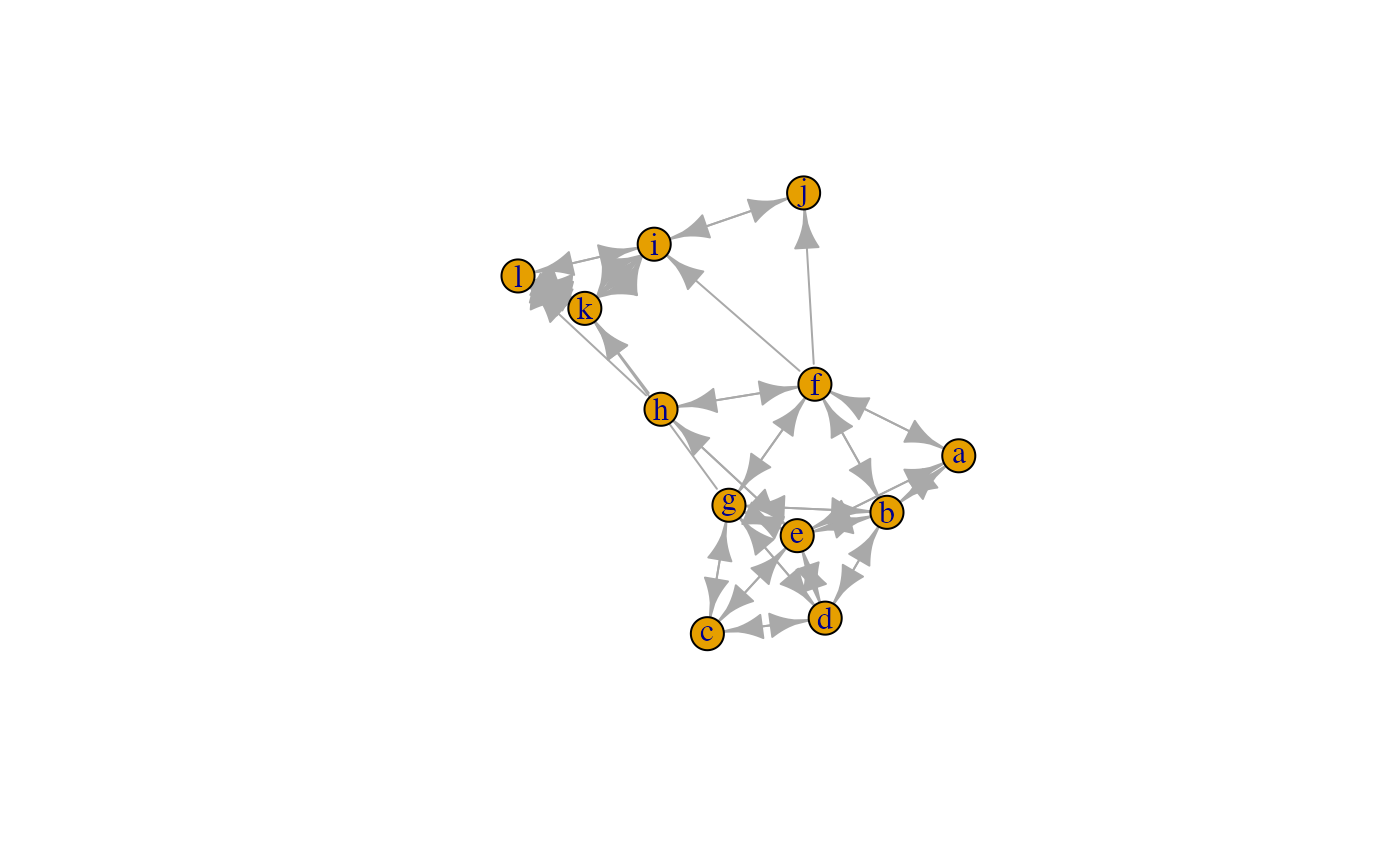
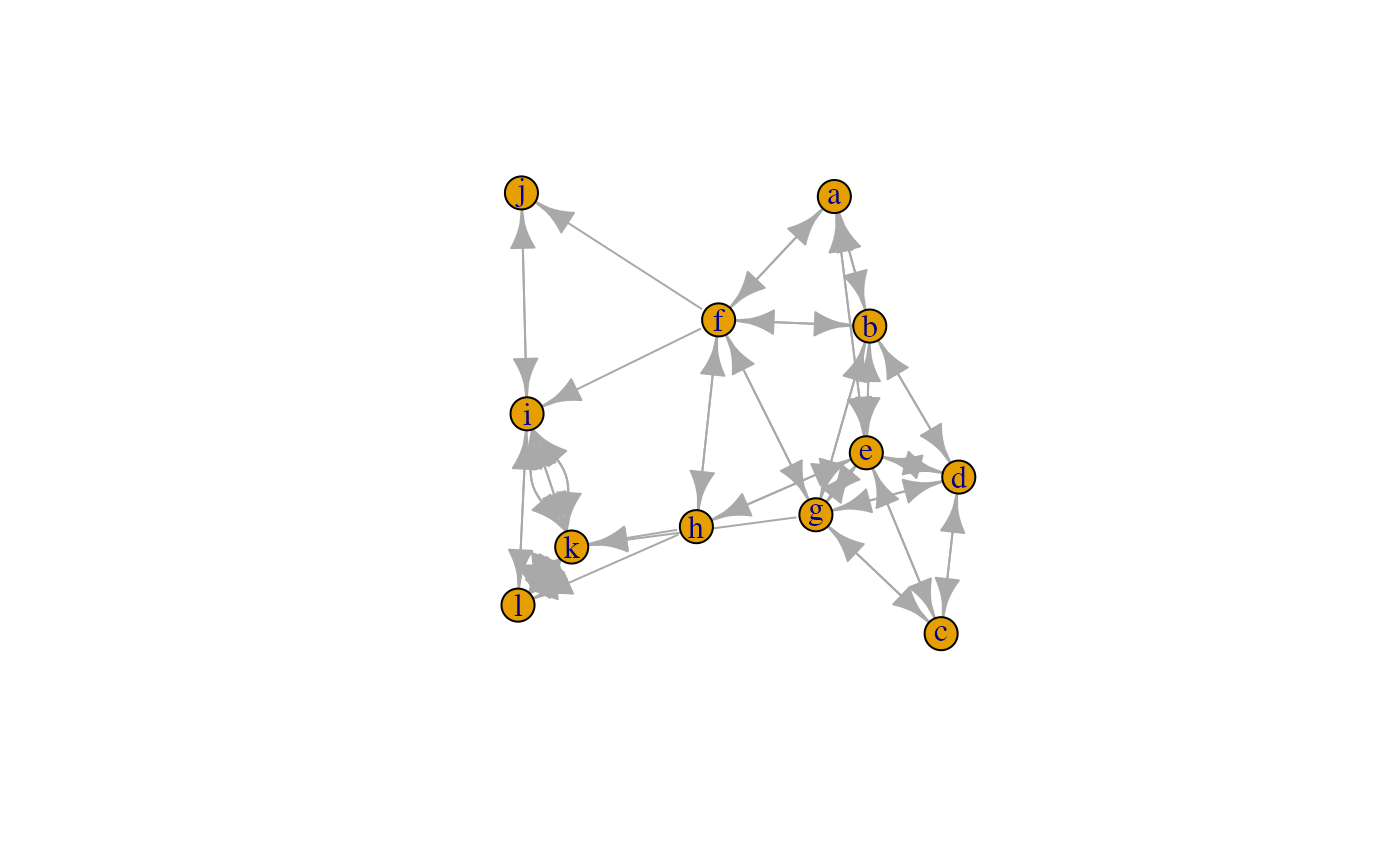
Update vignette

Changed region(s): [[0.3379, 0.1873, 0.7064, 0.7491]]

diff --git a/docs/articles/multilayer.html b/docs/articles/multilayer.html
@@ -551,7 +551,7 @@
 <div class="sourceCode" id="cb12"><pre class="downlit sourceCode r">
 <code class="sourceCode R"><span class="fu"><a href="../reference/k_core.html">k_core</a></span><span class="op">(</span><span class="va">A1</span>, <span class="va">B1</span>, multilevel<span class="op">=</span><span class="cn">TRUE</span><span class="op">)</span>
 <span class="co">#&gt; [1] 1 3 1 2 3</span></code></pre></div>
-<p>This package also allows performing complex census for multilevel networks.</p>
+<p>This package also allows performing complex census for multilevel networks</p>
 <div class="sourceCode" id="cb13"><pre class="downlit sourceCode r">
 <code class="sourceCode R"><span class="fu"><a href="../reference/mixed_census.html">mixed_census</a></span><span class="op">(</span><span class="va">A2</span>, <span class="fu"><a href="https://rdrr.io/r/base/t.html" class="external-link">t</a></span><span class="op">(</span><span class="va">B1</span><span class="op">)</span>, <span class="va">B2</span>, quad<span class="op">=</span><span class="cn">TRUE</span><span class="op">)</span>
 <span class="co">#&gt;   000   100   001   010   020   200  11D0  11U0   120   210   220   002  01D1 </span>
@@ -560,22 +560,200 @@
 <span class="co">#&gt;     0     0     8     0     3     0     1     3     1     0     0     0     0 </span>
 <span class="co">#&gt;  121W  121P  21D1  21U1  11D2  11U2   221   122   212   222 </span>
 <span class="co">#&gt;    11    13     0     0     0     0     3     0     0     0</span></code></pre></div>
+<p>Also, there are some functions that allowed performing the zone-2 sampling from second-mode (2-path distance from an ego in the second level)</p>
+<div class="sourceCode" id="cb14"><pre class="downlit sourceCode r">
+<code class="sourceCode R"><span class="kw"><a href="https://rdrr.io/r/base/library.html" class="external-link">library</a></span><span class="op">(</span><span class="va"><a href="https://igraph.org" class="external-link">igraph</a></span><span class="op">)</span>
+<span class="va">m</span> <span class="op">&lt;-</span> <span class="fu"><a href="../reference/meta_matrix.html">meta_matrix</a></span><span class="op">(</span><span class="va">A1</span>, <span class="va">B1</span><span class="op">)</span>
+<span class="va">g</span> <span class="op">&lt;-</span> <span class="fu"><a href="https://rdrr.io/pkg/igraph/man/graph_from_adjacency_matrix.html" class="external-link">graph.adjacency</a></span><span class="op">(</span><span class="va">m</span>, mode <span class="op">=</span> <span class="fu"><a href="https://rdrr.io/r/base/c.html" class="external-link">c</a></span><span class="op">(</span><span class="st">'undirected'</span><span class="op">)</span><span class="op">)</span>
+<span class="fu"><a href="https://rdrr.io/pkg/igraph/man/V.html" class="external-link">V</a></span><span class="op">(</span><span class="va">g</span><span class="op">)</span><span class="op">$</span><span class="va">type</span> <span class="op">&lt;-</span> <span class="fu"><a href="https://rdrr.io/r/base/ifelse.html" class="external-link">ifelse</a></span><span class="op">(</span><span class="fu"><a href="https://rdrr.io/pkg/igraph/man/V.html" class="external-link">V</a></span><span class="op">(</span><span class="va">g</span><span class="op">)</span><span class="op">$</span><span class="va">name</span> <span class="op"><a href="https://rdrr.io/r/base/match.html" class="external-link">%in%</a></span> <span class="fu"><a href="https://rdrr.io/r/base/colnames.html" class="external-link">colnames</a></span><span class="op">(</span><span class="va">B1</span><span class="op">)</span>, <span class="cn">TRUE</span>, <span class="cn">FALSE</span><span class="op">)</span>
+<span class="fu"><a href="https://rdrr.io/r/graphics/plot.default.html" class="external-link">plot</a></span><span class="op">(</span><span class="va">g</span>, vertex.color <span class="op">=</span> <span class="fu"><a href="https://rdrr.io/r/base/ifelse.html" class="external-link">ifelse</a></span><span class="op">(</span><span class="fu"><a href="https://rdrr.io/pkg/igraph/man/V.html" class="external-link">V</a></span><span class="op">(</span><span class="va">g</span><span class="op">)</span><span class="op">$</span><span class="va">type</span> <span class="op">==</span> <span class="cn">TRUE</span>, <span class="st">'blue'</span>, <span class="st">'red'</span><span class="op">)</span><span class="op">)</span></code></pre></div>
+<p><img src="multilayer_files/figure-html/unnamed-chunk-7-1.png" width="700"></p>
+<div class="sourceCode" id="cb15"><pre class="downlit sourceCode r">
+<code class="sourceCode R">
+<span class="va">two_mode_sam</span> <span class="op">&lt;-</span> <span class="fu"><a href="../reference/zone_sample.html">zone_sample</a></span><span class="op">(</span><span class="va">A1</span>, <span class="va">B1</span>, ego <span class="op">=</span> <span class="cn">TRUE</span><span class="op">)</span>
+<span class="kw">for</span><span class="op">(</span><span class="va">i</span> <span class="kw">in</span> <span class="fl">1</span><span class="op">:</span><span class="fu"><a href="https://rdrr.io/r/base/nrow.html" class="external-link">ncol</a></span><span class="op">(</span><span class="va">B1</span><span class="op">)</span><span class="op">)</span><span class="op">{</span>
+   <span class="fu"><a href="https://rdrr.io/pkg/igraph/man/V.html" class="external-link">V</a></span><span class="op">(</span><span class="va">two_mode_sam</span><span class="op">[[</span><span class="va">i</span><span class="op">]</span><span class="op">]</span><span class="op">)</span><span class="op">$</span><span class="va">color</span> <span class="op">&lt;-</span> <span class="fu"><a href="https://rdrr.io/r/base/ifelse.html" class="external-link">ifelse</a></span><span class="op">(</span><span class="fu"><a href="https://rdrr.io/pkg/igraph/man/V.html" class="external-link">V</a></span><span class="op">(</span><span class="va">two_mode_sam</span><span class="op">[[</span><span class="va">i</span><span class="op">]</span><span class="op">]</span><span class="op">)</span><span class="op">$</span><span class="va">name</span> <span class="op"><a href="https://rdrr.io/r/base/match.html" class="external-link">%in%</a></span> <span class="fu"><a href="https://rdrr.io/r/base/colnames.html" class="external-link">colnames</a></span><span class="op">(</span><span class="va">B1</span><span class="op">)</span>, <span class="st">'blue'</span>, <span class="st">'red'</span><span class="op">)</span>
+   
+   <span class="fu"><a href="https://rdrr.io/r/graphics/plot.default.html" class="external-link">plot</a></span><span class="op">(</span><span class="fu"><a href="https://rdrr.io/pkg/igraph/man/as.directed.html" class="external-link">as.undirected</a></span><span class="op">(</span><span class="va">two_mode_sam</span><span class="op">[[</span><span class="va">i</span><span class="op">]</span><span class="op">]</span><span class="op">)</span>, vertex.color <span class="op">=</span> <span class="fu"><a href="https://rdrr.io/pkg/igraph/man/V.html" class="external-link">V</a></span><span class="op">(</span><span class="va">two_mode_sam</span><span class="op">[[</span><span class="va">i</span><span class="op">]</span><span class="op">]</span><span class="op">)</span><span class="op">$</span><span class="va">color</span>, main <span class="op">=</span> <span class="fu"><a href="https://rdrr.io/r/base/names.html" class="external-link">names</a></span><span class="op">(</span><span class="va">two_mode_sam</span><span class="op">)</span><span class="op">[</span><span class="va">i</span><span class="op">]</span><span class="op">)</span>
+   
+<span class="op">}</span></code></pre></div>
+<p><img src="multilayer_files/figure-html/unnamed-chunk-7-2.png" width="700"><img src="multilayer_files/figure-html/unnamed-chunk-7-3.png" width="700"><img src="multilayer_files/figure-html/unnamed-chunk-7-4.png" width="700"></p>
+<p>Willing to create a multilevel network? We can simulate a multilevel network with 30 actors in the first level and 20 nodes in the second level.</p>
+<div class="sourceCode" id="cb16"><pre class="downlit sourceCode r">
+<code class="sourceCode R"><span class="fu"><a href="https://rdrr.io/r/base/Random.html" class="external-link">set.seed</a></span><span class="op">(</span><span class="fl">26091949</span><span class="op">)</span>
+<span class="fu"><a href="../reference/ind_rand_matrix.html">ind_rand_matrix</a></span><span class="op">(</span>n <span class="op">=</span> <span class="fl">30</span>, m <span class="op">=</span> <span class="fl">20</span>, type <span class="op">=</span> <span class="st">'probability'</span>, p <span class="op">=</span> <span class="fl">0.2</span>, multilevel <span class="op">=</span> <span class="cn">TRUE</span><span class="op">)</span>
+<span class="co">#&gt;     n1 n2 n3 n4 n5 n6 n7 n8 n9 n10 n11 n12 n13 n14 n15 n16 n17 n18 n19 n20 n21</span>
+<span class="co">#&gt; n1   0  0  1  0  0  0  1  0  0   1   0   0   1   0   0   0   0   0   0   0   0</span>
+<span class="co">#&gt; n2   0  0  0  0  0  0  0  0  0   0   0   1   0   0   1   0   1   0   0   1   0</span>
+<span class="co">#&gt; n3   0  0  0  0  0  0  1  0  0   0   0   0   1   0   0   0   0   0   0   0   0</span>
+<span class="co">#&gt; n4   0  0  1  0  0  0  0  0  0   0   0   0   1   0   1   0   0   0   0   1   0</span>
+<span class="co">#&gt; n5   0  0  1  0  0  0  0  0  1   0   1   0   0   1   0   0   1   0   0   0   0</span>
+<span class="co">#&gt; n6   1  0  0  0  0  0  0  0  0   0   0   0   1   1   1   0   0   0   0   0   1</span>
+<span class="co">#&gt; n7   0  0  1  0  0  0  0  0  0   0   0   1   0   0   0   0   1   0   0   0   1</span>
+<span class="co">#&gt; n8   0  0  0  0  0  0  0  0  0   0   0   1   0   0   1   1   1   0   0   0   0</span>
+<span class="co">#&gt; n9   0  0  0  0  1  0  0  0  0   0   0   0   0   0   0   0   0   0   0   0   0</span>
+<span class="co">#&gt; n10  0  0  1  0  1  0  0  0  0   0   0   0   0   0   0   0   0   0   1   0   0</span>
+<span class="co">#&gt; n11  1  0  0  1  0  1  0  0  0   0   0   0   0   1   0   0   1   0   0   0   0</span>
+<span class="co">#&gt; n12  0  0  0  0  0  0  0  0  0   1   0   0   0   0   0   0   0   0   1   0   0</span>
+<span class="co">#&gt; n13  0  0  0  0  0  0  0  0  0   0   0   0   0   0   1   0   0   0   1   0   0</span>
+<span class="co">#&gt; n14  0  0  1  0  0  0  0  0  0   0   0   0   0   0   0   0   0   1   1   0   0</span>
+<span class="co">#&gt; n15  0  0  0  0  1  0  0  1  1   0   0   0   0   0   0   0   0   0   0   0   0</span>
+<span class="co">#&gt; n16  0  1  0  0  1  0  0  0  0   1   1   0   0   0   1   0   0   0   0   0   1</span>
+<span class="co">#&gt; n17  0  1  0  0  0  0  1  0  0   0   0   0   0   0   0   1   0   0   0   0   0</span>
+<span class="co">#&gt; n18  1  0  0  0  0  0  1  0  1   0   0   0   0   0   0   0   0   0   1   0   0</span>
+<span class="co">#&gt; n19  1  0  1  0  0  1  0  0  0   1   0   0   0   0   0   1   0   0   0   0   0</span>
+<span class="co">#&gt; n20  0  1  0  0  0  0  0  1  0   1   0   0   1   0   0   0   1   1   0   0   0</span>
+<span class="co">#&gt; n21  0  0  0  1  1  1  0  0  0   0   0   0   0   1   0   0   0   0   1   0   0</span>
+<span class="co">#&gt; n22  0  0  0  0  0  0  0  0  0   0   1   0   0   0   0   0   0   0   0   0   0</span>
+<span class="co">#&gt; n23  1  0  0  0  0  1  1  0  1   0   0   0   0   0   0   0   1   0   0   1   0</span>
+<span class="co">#&gt; n24  0  0  0  0  0  0  0  0  0   0   0   0   0   0   0   0   0   0   0   0   0</span>
+<span class="co">#&gt; n25  1  0  0  0  1  0  0  0  0   0   0   0   1   0   0   0   0   0   0   0   0</span>
+<span class="co">#&gt; n26  0  0  1  0  0  0  0  0  0   0   0   0   0   0   0   0   0   0   0   0   1</span>
+<span class="co">#&gt; n27  0  0  1  0  0  0  0  0  0   0   0   0   0   0   0   0   0   0   0   0   0</span>
+<span class="co">#&gt; n28  1  0  1  0  0  1  0  0  0   0   0   0   0   1   0   0   1   1   1   0   0</span>
+<span class="co">#&gt; n29  0  0  0  0  0  0  0  0  0   0   1   0   0   0   0   0   0   0   1   0   0</span>
+<span class="co">#&gt; n30  0  0  0  1  0  0  0  1  0   0   0   0   1   0   1   0   0   0   0   1   0</span>
+<span class="co">#&gt; m1   0  0  0  0  0  0  0  0  0   1   0   0   0   1   0   0   0   1   0   0   0</span>
+<span class="co">#&gt; m2   0  1  0  0  1  1  0  1  0   0   0   0   0   0   0   0   0   1   0   0   0</span>
+<span class="co">#&gt; m3   0  0  0  0  0  0  0  0  0   0   0   0   0   0   1   1   0   1   1   0   0</span>
+<span class="co">#&gt; m4   0  0  0  0  1  1  0  0  0   0   0   0   0   0   0   0   1   1   1   0   0</span>
+<span class="co">#&gt; m5   0  0  0  1  0  0  0  0  0   0   0   0   1   1   0   0   0   1   0   1   0</span>
+<span class="co">#&gt; m6   0  0  0  0  0  0  0  1  1   0   0   1   0   0   1   0   0   0   0   0   1</span>
+<span class="co">#&gt; m7   0  0  0  1  0  0  1  0  1   0   0   0   0   0   0   0   1   0   0   1   0</span>
+<span class="co">#&gt; m8   0  0  0  0  0  0  0  0  0   1   0   0   0   0   1   0   0   0   0   1   0</span>
+<span class="co">#&gt; m9   1  0  0  1  0  0  1  0  0   0   0   0   0   0   0   0   0   0   0   1   0</span>
+<span class="co">#&gt; m10  1  0  0  1  0  1  0  0  0   1   0   0   0   0   0   0   0   0   0   0   0</span>
+<span class="co">#&gt; m11  0  0  0  1  1  1  0  0  0   1   0   1   0   0   0   0   0   1   0   1   1</span>
+<span class="co">#&gt; m12  0  1  0  0  0  1  0  0  0   0   0   0   0   0   1   1   0   1   0   0   0</span>
+<span class="co">#&gt; m13  0  0  1  0  0  0  1  0  0   0   0   0   0   0   0   0   1   1   0   0   0</span>
+<span class="co">#&gt; m14  0  0  0  0  0  0  0  0  0   0   0   0   0   1   0   0   0   0   0   0   0</span>
+<span class="co">#&gt; m15  0  0  0  0  0  0  0  0  0   0   0   0   1   0   1   1   0   1   0   1   0</span>
+<span class="co">#&gt; m16  0  0  0  0  0  1  0  0  0   0   0   0   0   0   0   0   0   0   0   0   1</span>
+<span class="co">#&gt; m17  0  1  0  0  1  0  1  1  0   0   0   0   0   1   1   0   1   0   0   0   0</span>
+<span class="co">#&gt; m18  0  1  0  0  1  0  0  0  0   1   0   0   0   0   0   0   0   0   0   0   0</span>
+<span class="co">#&gt; m19  1  0  0  0  0  0  0  1  0   1   0   0   0   1   0   0   1   1   0   0   0</span>
+<span class="co">#&gt; m20  0  0  0  0  0  1  0  1  0   0   0   0   0   0   0   1   0   0   0   0   0</span>
+<span class="co">#&gt;     n22 n23 n24 n25 n26 n27 n28 n29 n30 m1 m2 m3 m4 m5 m6 m7 m8 m9 m10 m11 m12</span>
+<span class="co">#&gt; n1    0   1   1   0   1   0   0   1   0  0  0  0  0  0  0  0  0  1   1   0   0</span>
+<span class="co">#&gt; n2    1   0   0   1   0   0   0   1   0  0  1  0  0  0  0  0  0  0   0   0   1</span>
+<span class="co">#&gt; n3    0   1   0   0   0   1   0   0   1  0  0  0  0  0  0  0  0  0   0   0   0</span>
+<span class="co">#&gt; n4    0   0   0   1   0   1   0   0   0  0  0  0  0  1  0  1  0  1   1   1   0</span>
+<span class="co">#&gt; n5    0   1   0   0   0   1   0   1   0  0  1  0  1  0  0  0  0  0   0   1   0</span>
+<span class="co">#&gt; n6    0   0   0   0   0   0   0   0   0  0  1  0  1  0  0  0  0  0   1   1   1</span>
+<span class="co">#&gt; n7    1   0   0   0   1   0   0   0   1  0  0  0  0  0  0  1  0  1   0   0   0</span>
+<span class="co">#&gt; n8    0   0   0   0   1   1   0   0   0  0  1  0  0  0  1  0  0  0   0   0   0</span>
+<span class="co">#&gt; n9    0   0   1   1   1   0   1   0   0  0  0  0  0  0  1  1  0  0   0   0   0</span>
+<span class="co">#&gt; n10   0   1   1   0   1   0   0   1   0  1  0  0  0  0  0  0  1  0   1   1   0</span>
+<span class="co">#&gt; n11   0   0   0   0   0   1   0   1   0  0  0  0  0  0  0  0  0  0   0   0   0</span>
+<span class="co">#&gt; n12   0   0   0   1   0   0   0   0   0  0  0  0  0  0  1  0  0  0   0   1   0</span>
+<span class="co">#&gt; n13   0   1   0   0   1   1   1   0   0  0  0  0  0  1  0  0  0  0   0   0   0</span>
+<span class="co">#&gt; n14   0   0   1   0   0   1   0   0   0  1  0  0  0  1  0  0  0  0   0   0   0</span>
+<span class="co">#&gt; n15   1   0   0   1   0   0   0   0   0  0  0  1  0  0  1  0  1  0   0   0   1</span>
+<span class="co">#&gt; n16   0   1   1   0   0   0   1   0   1  0  0  1  0  0  0  0  0  0   0   0   1</span>
+<span class="co">#&gt; n17   0   0   0   0   0   0   0   0   0  0  0  0  1  0  0  1  0  0   0   0   0</span>
+<span class="co">#&gt; n18   0   0   0   0   1   0   0   0   1  1  1  1  1  1  0  0  0  0   0   1   1</span>
+<span class="co">#&gt; n19   0   0   0   0   0   0   0   0   0  0  0  1  1  0  0  0  0  0   0   0   0</span>
+<span class="co">#&gt; n20   0   0   0   1   0   0   1   0   0  0  0  0  0  1  0  1  1  1   0   1   0</span>
+<span class="co">#&gt; n21   0   0   0   1   0   1   0   1   0  0  0  0  0  0  1  0  0  0   0   1   0</span>
+<span class="co">#&gt; n22   0   0   1   0   0   0   1   0   1  0  1  0  0  0  1  1  1  0   1   0   0</span>
+<span class="co">#&gt; n23   0   0   0   0   0   0   1   0   0  0  1  0  0  0  1  0  0  0   0   0   0</span>
+<span class="co">#&gt; n24   0   0   0   0   0   0   0   1   1  0  1  0  0  0  0  1  1  1   0   1   0</span>
+<span class="co">#&gt; n25   0   0   0   0   0   1   1   0   0  0  0  0  0  0  0  0  0  1   0   0   0</span>
+<span class="co">#&gt; n26   1   0   0   0   0   0   0   1   0  0  0  0  0  0  0  0  1  0   0   0   0</span>
+<span class="co">#&gt; n27   1   1   0   0   0   0   0   1   0  0  0  1  1  0  0  1  1  0   0   0   0</span>
+<span class="co">#&gt; n28   0   0   0   0   0   0   0   0   1  0  0  1  0  0  1  1  0  0   0   0   0</span>
+<span class="co">#&gt; n29   1   0   0   0   0   1   1   0   0  0  1  0  1  0  0  0  1  0   0   0   1</span>
+<span class="co">#&gt; n30   1   0   1   0   0   0   0   0   0  0  0  0  0  0  0  0  0  0   1   1   1</span>
+<span class="co">#&gt; m1    0   0   0   0   0   0   0   0   0  0  0  0  0  0  0  0  0  0   0   0   0</span>
+<span class="co">#&gt; m2    1   1   1   0   0   0   0   1   0  0  0  0  0  0  0  0  0  0   0   0   0</span>
+<span class="co">#&gt; m3    0   0   0   0   0   1   1   0   0  0  0  0  0  0  0  0  0  0   0   0   0</span>
+<span class="co">#&gt; m4    0   0   0   0   0   1   0   1   0  0  0  0  0  0  0  0  0  0   0   0   0</span>
+<span class="co">#&gt; m5    0   0   0   0   0   0   0   0   0  0  0  0  0  0  0  0  0  0   0   0   0</span>
+<span class="co">#&gt; m6    1   1   0   0   0   0   1   0   0  0  0  0  0  0  0  0  0  0   0   0   0</span>
+<span class="co">#&gt; m7    1   0   1   0   0   1   1   0   0  0  0  0  0  0  0  0  0  0   0   0   0</span>
+<span class="co">#&gt; m8    1   0   1   0   1   1   0   1   0  0  0  0  0  0  0  0  0  0   0   0   0</span>
+<span class="co">#&gt; m9    0   0   1   1   0   0   0   0   0  0  0  0  0  0  0  0  0  0   0   0   0</span>
+<span class="co">#&gt; m10   1   0   0   0   0   0   0   0   1  0  0  0  0  0  0  0  0  0   0   0   0</span>
+<span class="co">#&gt; m11   0   0   1   0   0   0   0   0   1  0  0  0  0  0  0  0  0  0   0   0   0</span>
+<span class="co">#&gt; m12   0   0   0   0   0   0   0   1   1  0  0  0  0  0  0  0  0  0   0   0   0</span>
+<span class="co">#&gt; m13   0   0   0   0   0   0   1   1   0  0  0  0  0  0  0  0  0  0   0   0   0</span>
+<span class="co">#&gt; m14   0   0   0   0   1   1   0   0   0  0  0  0  0  0  0  0  0  0   0   0   0</span>
+<span class="co">#&gt; m15   0   0   0   0   0   0   0   0   0  0  0  0  0  0  0  0  0  0   0   0   0</span>
+<span class="co">#&gt; m16   0   1   1   0   1   0   0   1   0  0  0  0  0  0  0  0  0  0   0   0   0</span>
+<span class="co">#&gt; m17   1   0   0   0   0   0   0   0   0  0  0  0  0  0  0  0  0  0   0   0   0</span>
+<span class="co">#&gt; m18   0   0   0   0   0   0   0   1   0  0  0  0  0  0  0  0  0  0   0   0   0</span>
+<span class="co">#&gt; m19   0   0   1   0   1   0   0   0   0  0  0  0  0  0  0  0  0  0   0   0   0</span>
+<span class="co">#&gt; m20   0   0   0   0   0   0   0   0   0  0  0  0  0  0  0  0  0  0   0   0   0</span>
+<span class="co">#&gt;     m13 m14 m15 m16 m17 m18 m19 m20</span>
+<span class="co">#&gt; n1    0   0   0   0   0   0   1   0</span>
+<span class="co">#&gt; n2    0   0   0   0   1   1   0   0</span>
+<span class="co">#&gt; n3    1   0   0   0   0   0   0   0</span>
+<span class="co">#&gt; n4    0   0   0   0   0   0   0   0</span>
+<span class="co">#&gt; n5    0   0   0   0   1   1   0   0</span>
+<span class="co">#&gt; n6    0   0   0   1   0   0   0   1</span>
+<span class="co">#&gt; n7    1   0   0   0   1   0   0   0</span>
+<span class="co">#&gt; n8    0   0   0   0   1   0   1   1</span>
+<span class="co">#&gt; n9    0   0   0   0   0   0   0   0</span>
+<span class="co">#&gt; n10   0   0   0   0   0   1   1   0</span>
+<span class="co">#&gt; n11   0   0   0   0   0   0   0   0</span>
+<span class="co">#&gt; n12   0   0   0   0   0   0   0   0</span>
+<span class="co">#&gt; n13   0   0   1   0   0   0   0   0</span>
+<span class="co">#&gt; n14   0   1   0   0   1   0   1   0</span>
+<span class="co">#&gt; n15   0   0   1   0   1   0   0   0</span>
+<span class="co">#&gt; n16   0   0   1   0   0   0   0   1</span>
+<span class="co">#&gt; n17   1   0   0   0   1   0   1   0</span>
+<span class="co">#&gt; n18   1   0   1   0   0   0   1   0</span>
+<span class="co">#&gt; n19   0   0   0   0   0   0   0   0</span>
+<span class="co">#&gt; n20   0   0   1   0   0   0   0   0</span>
+<span class="co">#&gt; n21   0   0   0   1   0   0   0   0</span>
+<span class="co">#&gt; n22   0   0   0   0   1   0   0   0</span>
+<span class="co">#&gt; n23   0   0   0   1   0   0   0   0</span>
+<span class="co">#&gt; n24   0   0   0   1   0   0   1   0</span>
+<span class="co">#&gt; n25   0   0   0   0   0   0   0   0</span>
+<span class="co">#&gt; n26   0   1   0   1   0   0   1   0</span>
+<span class="co">#&gt; n27   0   1   0   0   0   0   0   0</span>
+<span class="co">#&gt; n28   1   0   0   0   0   0   0   0</span>
+<span class="co">#&gt; n29   1   0   0   1   0   1   0   0</span>
+<span class="co">#&gt; n30   0   0   0   0   0   0   0   0</span>
+<span class="co">#&gt; m1    0   0   0   0   0   0   0   0</span>
+<span class="co">#&gt; m2    0   0   0   0   0   0   0   0</span>
+<span class="co">#&gt; m3    0   0   0   0   0   0   0   0</span>
+<span class="co">#&gt; m4    0   0   0   0   0   0   0   0</span>
+<span class="co">#&gt; m5    0   0   0   0   0   0   0   0</span>
+<span class="co">#&gt; m6    0   0   0   0   0   0   0   0</span>
+<span class="co">#&gt; m7    0   0   0   0   0   0   0   0</span>
+<span class="co">#&gt; m8    0   0   0   0   0   0   0   0</span>
+<span class="co">#&gt; m9    0   0   0   0   0   0   0   0</span>
+<span class="co">#&gt; m10   0   0   0   0   0   0   0   0</span>
+<span class="co">#&gt; m11   0   0   0   0   0   0   0   0</span>
+<span class="co">#&gt; m12   0   0   0   0   0   0   0   0</span>
+<span class="co">#&gt; m13   0   0   0   0   0   0   0   0</span>
+<span class="co">#&gt; m14   0   0   0   0   0   0   0   0</span>
+<span class="co">#&gt; m15   0   0   0   0   0   0   0   0</span>
+<span class="co">#&gt; m16   0   0   0   0   0   0   0   0</span>
+<span class="co">#&gt; m17   0   0   0   0   0   0   0   0</span>
+<span class="co">#&gt; m18   0   0   0   0   0   0   0   0</span>
+<span class="co">#&gt; m19   0   0   0   0   0   0   0   0</span>
+<span class="co">#&gt; m20   0   0   0   0   0   0   0   0</span></code></pre></div>
 <hr>
 </div>
 </div>
 <div class="section level2">
 <h2 id="multiplex-networks">Multiplex networks<a class="anchor" aria-label="anchor" href="#multiplex-networks"></a>
 </h2>
-<p>Gluckman (1955) described multiplexity as:</p>
-<p>“…”</p>
 <p>In multiplex networks, interlayer edges can only connect nodes that represent the same actor in different layer (<a href="https://www.frontiersin.org/articles/10.3389/fvets.2020.00596/full" class="external-link">Kinsley et al., 2020</a>)</p>
-<div class="sourceCode" id="cb14"><pre class="downlit sourceCode r">
+<p>As mentioned by <a href="https://books.google.ch/books/about/The_Judicial_Process_Among_the_Barotse_o.html?id=Eja8AAAAIAAJ&amp;redir_esc=y" class="external-link">Gluckman (1955: 19)</a>:</p>
+<p>“As we shall have constantly to refer to the consistency of Lozi law with these relationships which serve many interests, I propose, for brevity, to call them <em>multiplex</em> relationships. I require also a term to cover the structure of relationships in which a person tends to occupy the same position relative to the same set of other persons in all networks of purposive ties - economic, political, procreative, religious, educational.”</p>
+<p>To explore some of the functions available in <code>netmem</code> we will use data from <a href="https://books.google.ch/books/about/The_Collegial_Phenomenon.html?id=zRNaURgLOhYC&amp;redir_esc=y" class="external-link">Lazega (2001)</a></p>
+<div class="sourceCode" id="cb17"><pre class="downlit sourceCode r">
 <code class="sourceCode R"><span class="fu"><a href="https://rdrr.io/r/utils/data.html" class="external-link">data</a></span><span class="op">(</span><span class="st">"lazega_lawfirm"</span><span class="op">)</span>
 <span class="fu"><a href="https://rdrr.io/r/base/colnames.html" class="external-link">rownames</a></span><span class="op">(</span><span class="va">lazega_lawfirm</span><span class="op">$</span><span class="va">advice</span><span class="op">)</span> <span class="op">&lt;-</span> <span class="fu"><a href="https://rdrr.io/r/base/character.html" class="external-link">as.character</a></span><span class="op">(</span><span class="fl">1</span><span class="op">:</span><span class="fu"><a href="https://rdrr.io/r/base/nrow.html" class="external-link">ncol</a></span><span class="op">(</span><span class="va">lazega_lawfirm</span><span class="op">$</span><span class="va">advice</span><span class="op">)</span><span class="op">)</span>
 <span class="fu"><a href="https://rdrr.io/r/base/colnames.html" class="external-link">colnames</a></span><span class="op">(</span><span class="va">lazega_lawfirm</span><span class="op">$</span><span class="va">advice</span><span class="op">)</span> <span class="op">&lt;-</span> <span class="fu"><a href="https://rdrr.io/r/base/colnames.html" class="external-link">rownames</a></span><span class="op">(</span><span class="va">lazega_lawfirm</span><span class="op">$</span><span class="va">advice</span><span class="op">)</span>
+
 <span class="fu"><a href="https://rdrr.io/r/base/colnames.html" class="external-link">colnames</a></span><span class="op">(</span><span class="va">lazega_lawfirm</span><span class="op">$</span><span class="va">friends</span><span class="op">)</span> <span class="op">&lt;-</span> <span class="fu"><a href="https://rdrr.io/r/base/colnames.html" class="external-link">rownames</a></span><span class="op">(</span><span class="va">lazega_lawfirm</span><span class="op">$</span><span class="va">advice</span><span class="op">)</span>
 <span class="fu"><a href="https://rdrr.io/r/base/colnames.html" class="external-link">rownames</a></span><span class="op">(</span><span class="va">lazega_lawfirm</span><span class="op">$</span><span class="va">friends</span><span class="op">)</span> <span class="op">&lt;-</span> <span class="fu"><a href="https://rdrr.io/r/base/colnames.html" class="external-link">colnames</a></span><span class="op">(</span><span class="va">lazega_lawfirm</span><span class="op">$</span><span class="va">friends</span><span class="op">)</span></code></pre></div>
-<div class="sourceCode" id="cb15"><pre class="downlit sourceCode r">
+<p>Which are the densities of the networks?</p>
+<div class="sourceCode" id="cb18"><pre class="downlit sourceCode r">
 <code class="sourceCode R"><span class="fu"><a href="../reference/gen_density.html">gen_density</a></span><span class="op">(</span><span class="fu"><a href="https://rdrr.io/r/base/list.html" class="external-link">list</a></span><span class="op">(</span><span class="va">lazega_lawfirm</span><span class="op">$</span><span class="va">cowork</span>, <span class="va">lazega_lawfirm</span><span class="op">$</span><span class="va">advice</span>, 
                  <span class="va">lazega_lawfirm</span><span class="op">$</span><span class="va">friends</span><span class="op">)</span>, multilayer <span class="op">=</span> <span class="cn">TRUE</span><span class="op">)</span>
 <span class="co">#&gt; $`Density of matrix [[1]]`</span>
@@ -586,8 +764,37 @@
 <span class="co">#&gt; </span>
 <span class="co">#&gt; $`Density of matrix [[3]]`</span>
 <span class="co">#&gt; [1] 0.1251509</span></code></pre></div>
-<div class="sourceCode" id="cb16"><pre class="downlit sourceCode r">
-<code class="sourceCode R"><span class="fu"><a href="../reference/jaccard.html">jaccard</a></span><span class="op">(</span><span class="va">lazega_lawfirm</span><span class="op">$</span><span class="va">advice</span>, <span class="va">lazega_lawfirm</span><span class="op">$</span><span class="va">friends</span><span class="op">)</span>
+<p>How about computing the Jaccard index between matrices?</p>
+<div class="sourceCode" id="cb19"><pre class="downlit sourceCode r">
+<code class="sourceCode R"><span class="fu"><a href="../reference/jaccard.html">jaccard</a></span><span class="op">(</span><span class="va">lazega_lawfirm</span><span class="op">$</span><span class="va">cowork</span>, <span class="va">lazega_lawfirm</span><span class="op">$</span><span class="va">advice</span><span class="op">)</span>
+<span class="co">#&gt; $jaccard</span>
+<span class="co">#&gt; [1] 0.4115983</span>
+<span class="co">#&gt; </span>
+<span class="co">#&gt; $proportion</span>
+<span class="co">#&gt; [1] 0.5271739</span>
+<span class="co">#&gt; </span>
+<span class="co">#&gt; $table</span>
+<span class="co">#&gt;       B</span>
+<span class="co">#&gt; A         0    1 &lt;NA&gt;</span>
+<span class="co">#&gt;   0    3556  310    0</span>
+<span class="co">#&gt;   1     522  582    0</span>
+<span class="co">#&gt;   &lt;NA&gt;    0    0    0</span>
+
+<span class="fu"><a href="../reference/jaccard.html">jaccard</a></span><span class="op">(</span><span class="va">lazega_lawfirm</span><span class="op">$</span><span class="va">cowork</span>, <span class="va">lazega_lawfirm</span><span class="op">$</span><span class="va">friends</span><span class="op">)</span>
+<span class="co">#&gt; $jaccard</span>
+<span class="co">#&gt; [1] 0.2210909</span>
+<span class="co">#&gt; </span>
+<span class="co">#&gt; $proportion</span>
+<span class="co">#&gt; [1] 0.2753623</span>
+<span class="co">#&gt; </span>
+<span class="co">#&gt; $table</span>
+<span class="co">#&gt;       B</span>
+<span class="co">#&gt; A         0    1 &lt;NA&gt;</span>
+<span class="co">#&gt;   0    3595  271    0</span>
+<span class="co">#&gt;   1     800  304    0</span>
+<span class="co">#&gt;   &lt;NA&gt;    0    0    0</span>
+
+<span class="fu"><a href="../reference/jaccard.html">jaccard</a></span><span class="op">(</span><span class="va">lazega_lawfirm</span><span class="op">$</span><span class="va">advice</span>, <span class="va">lazega_lawfirm</span><span class="op">$</span><span class="va">friends</span><span class="op">)</span>
 <span class="co">#&gt; $jaccard</span>
 <span class="co">#&gt; [1] 0.3228133</span>
 <span class="co">#&gt; </span>
@@ -600,11 +807,9 @@
 <span class="co">#&gt;   0    3861  217    0</span>
 <span class="co">#&gt;   1     534  358    0</span>
 <span class="co">#&gt;   &lt;NA&gt;    0    0    0</span></code></pre></div>
-<div class="sourceCode" id="cb17"><pre class="downlit sourceCode r">
+<p>Finally, we can conduct a multiplex census between two matrices. For the moment, one matrix has to be asymmetric (directed) and the other symmetric (undirected).</p>
+<div class="sourceCode" id="cb20"><pre class="downlit sourceCode r">
 <code class="sourceCode R"><span class="fu"><a href="../reference/multiplex_census.html">multiplex_census</a></span><span class="op">(</span><span class="va">lazega_lawfirm</span><span class="op">$</span><span class="va">advice</span>, <span class="va">lazega_lawfirm</span><span class="op">$</span><span class="va">friends</span><span class="op">)</span>
-<span class="co">#&gt; Warning in multiplex_census(lazega_lawfirm$advice, lazega_lawfirm$friends):</span>
-<span class="co">#&gt; Measure only implemented for a directed and an undirected network. For the</span>
-<span class="co">#&gt; `second` network, the underlying graph is used</span>
 <span class="co">#&gt;            003_003            003_102            003_201            003_300 </span>
 <span class="co">#&gt;               9541              17745              11384              10799 </span>
 <span class="co">#&gt;            012_003           012_102a           012_102b           012_102c </span>
@@ -639,6 +844,26 @@
 <span class="co">#&gt;                489              20620                136                465 </span>
 <span class="co">#&gt;           120c_300        210_003_210            210_300        300_003_300 </span>
 <span class="co">#&gt;                334                616                485                336</span></code></pre></div>
+<p>Note: the temporal networks are a special case of a multiplex network. Links are dynamic, and nodes can join or leave at different stages of the network evolution. For example, in this <code>toy example</code>, maybe two authors are no longer available. In this case, we might prefer maintaining their name in the matrix and assign a <code>NA</code> in their row and/or column:</p>
+<div class="sourceCode" id="cb21"><pre class="downlit sourceCode r">
+<code class="sourceCode R"><span class="va">A</span> <span class="op">&lt;-</span> <span class="fu"><a href="https://rdrr.io/r/base/matrix.html" class="external-link">matrix</a></span><span class="op">(</span><span class="fu"><a href="https://rdrr.io/r/base/c.html" class="external-link">c</a></span><span class="op">(</span>
+  <span class="fl">0</span>, <span class="fl">1</span>, <span class="fl">1</span>,
+  <span class="fl">1</span>, <span class="fl">0</span>, <span class="fl">1</span>,
+  <span class="fl">0</span>, <span class="fl">0</span>, <span class="fl">0</span>
+<span class="op">)</span>, byrow <span class="op">=</span> <span class="cn">TRUE</span>, ncol <span class="op">=</span> <span class="fl">3</span><span class="op">)</span>
+<span class="fu"><a href="https://rdrr.io/r/base/colnames.html" class="external-link">colnames</a></span><span class="op">(</span><span class="va">A</span><span class="op">)</span> <span class="op">&lt;-</span> <span class="fu"><a href="https://rdrr.io/r/base/c.html" class="external-link">c</a></span><span class="op">(</span><span class="st">"A"</span>, <span class="st">"C"</span>, <span class="st">"D"</span><span class="op">)</span>
+<span class="fu"><a href="https://rdrr.io/r/base/colnames.html" class="external-link">rownames</a></span><span class="op">(</span><span class="va">A</span><span class="op">)</span> <span class="op">&lt;-</span> <span class="fu"><a href="https://rdrr.io/r/base/c.html" class="external-link">c</a></span><span class="op">(</span><span class="st">"A"</span>, <span class="st">"C"</span>, <span class="st">"D"</span><span class="op">)</span>
+
+<span class="co"># complete list of actors</span>
+<span class="va">label</span> <span class="op">&lt;-</span> <span class="fu"><a href="https://rdrr.io/r/base/c.html" class="external-link">c</a></span><span class="op">(</span><span class="st">"A"</span>, <span class="st">"B"</span>, <span class="st">"C"</span>, <span class="st">"D"</span>, <span class="st">"E"</span><span class="op">)</span>
+
+<span class="fu"><a href="../reference/structural_na.html">structural_na</a></span><span class="op">(</span><span class="va">A</span>, <span class="va">label</span><span class="op">)</span>
+<span class="co">#&gt;    A  B  C  D  E</span>
+<span class="co">#&gt; A  0 NA  1  1 NA</span>
+<span class="co">#&gt; B NA NA NA NA NA</span>
+<span class="co">#&gt; C  1 NA  0  1 NA</span>
+<span class="co">#&gt; D  0 NA  0  0 NA</span>
+<span class="co">#&gt; E NA NA NA NA NA</span></code></pre></div>
 </div>
   </div>
 

diff --git a/docs/reference/zone_sample.html b/docs/reference/zone_sample.html
@@ -119,30 +119,30 @@
 <span class="r-in"><span class="fu"><a href="https://rdrr.io/r/base/Random.html" class="external-link">set.seed</a></span><span class="op">(</span><span class="fl">18051889</span><span class="op">)</span></span>
 <span class="r-in"><span class="fu">zone_sample</span><span class="op">(</span><span class="va">A</span>, <span class="va">X</span>, core <span class="op">=</span> <span class="cn">TRUE</span><span class="op">)</span></span>
 <span class="r-out co"><span class="r-pr">#&gt;</span> $a</span>
-<span class="r-out co"><span class="r-pr">#&gt;</span> IGRAPH 2da10b8 DN-- 7 16 -- </span>
+<span class="r-out co"><span class="r-pr">#&gt;</span> IGRAPH e5b5177 DN-- 7 16 -- </span>
 <span class="r-out co"><span class="r-pr">#&gt;</span> + attr: name (v/c), core (v/n)</span>
-<span class="r-out co"><span class="r-pr">#&gt;</span> + edges from 2da10b8 (vertex names):</span>
+<span class="r-out co"><span class="r-pr">#&gt;</span> + edges from e5b5177 (vertex names):</span>
 <span class="r-out co"><span class="r-pr">#&gt;</span>  [1] 1-&gt;2 1-&gt;a 2-&gt;3 2-&gt;a 3-&gt;2 3-&gt;4 3-&gt;a 3-&gt;c 4-&gt;b 4-&gt;c a-&gt;1 a-&gt;2 a-&gt;3 b-&gt;4 c-&gt;3</span>
 <span class="r-out co"><span class="r-pr">#&gt;</span> [16] c-&gt;4</span>
 <span class="r-out co"><span class="r-pr">#&gt;</span> </span>
 <span class="r-out co"><span class="r-pr">#&gt;</span> $b</span>
-<span class="r-out co"><span class="r-pr">#&gt;</span> IGRAPH 0dc388d DN-- 8 18 -- </span>
+<span class="r-out co"><span class="r-pr">#&gt;</span> IGRAPH fbf6eba DN-- 8 18 -- </span>
 <span class="r-out co"><span class="r-pr">#&gt;</span> + attr: name (v/c), core (v/n)</span>
-<span class="r-out co"><span class="r-pr">#&gt;</span> + edges from 0dc388d (vertex names):</span>
+<span class="r-out co"><span class="r-pr">#&gt;</span> + edges from fbf6eba (vertex names):</span>
 <span class="r-out co"><span class="r-pr">#&gt;</span>  [1] 3-&gt;4 3-&gt;a 3-&gt;c 4-&gt;b 4-&gt;c 5-&gt;b 5-&gt;c 5-&gt;d 6-&gt;4 6-&gt;b a-&gt;3 b-&gt;4 b-&gt;5 b-&gt;6 c-&gt;3</span>
 <span class="r-out co"><span class="r-pr">#&gt;</span> [16] c-&gt;4 c-&gt;5 d-&gt;5</span>
 <span class="r-out co"><span class="r-pr">#&gt;</span> </span>
 <span class="r-out co"><span class="r-pr">#&gt;</span> $c</span>
-<span class="r-out co"><span class="r-pr">#&gt;</span> IGRAPH a3b0d25 DN-- 9 22 -- </span>
+<span class="r-out co"><span class="r-pr">#&gt;</span> IGRAPH a1ba639 DN-- 9 22 -- </span>
 <span class="r-out co"><span class="r-pr">#&gt;</span> + attr: name (v/c), core (v/n)</span>
-<span class="r-out co"><span class="r-pr">#&gt;</span> + edges from a3b0d25 (vertex names):</span>
+<span class="r-out co"><span class="r-pr">#&gt;</span> + edges from a1ba639 (vertex names):</span>
 <span class="r-out co"><span class="r-pr">#&gt;</span>  [1] 2-&gt;3 2-&gt;a 3-&gt;2 3-&gt;4 3-&gt;a 3-&gt;c 4-&gt;b 4-&gt;c 5-&gt;b 5-&gt;c 5-&gt;d 6-&gt;4 6-&gt;b a-&gt;2 a-&gt;3</span>
 <span class="r-out co"><span class="r-pr">#&gt;</span> [16] b-&gt;4 b-&gt;5 b-&gt;6 c-&gt;3 c-&gt;4 c-&gt;5 d-&gt;5</span>
 <span class="r-out co"><span class="r-pr">#&gt;</span> </span>
 <span class="r-out co"><span class="r-pr">#&gt;</span> $d</span>
-<span class="r-out co"><span class="r-pr">#&gt;</span> IGRAPH ed7b2f7 DN-- 5 8 -- </span>
+<span class="r-out co"><span class="r-pr">#&gt;</span> IGRAPH d2bbfdf DN-- 5 8 -- </span>
 <span class="r-out co"><span class="r-pr">#&gt;</span> + attr: name (v/c), core (v/n)</span>
-<span class="r-out co"><span class="r-pr">#&gt;</span> + edges from ed7b2f7 (vertex names):</span>
+<span class="r-out co"><span class="r-pr">#&gt;</span> + edges from d2bbfdf (vertex names):</span>
 <span class="r-out co"><span class="r-pr">#&gt;</span> [1] 5-&gt;b 5-&gt;c 5-&gt;d 8-&gt;d b-&gt;5 c-&gt;5 d-&gt;5 d-&gt;8</span>
 <span class="r-out co"><span class="r-pr">#&gt;</span> </span>
 </code></pre></div>
